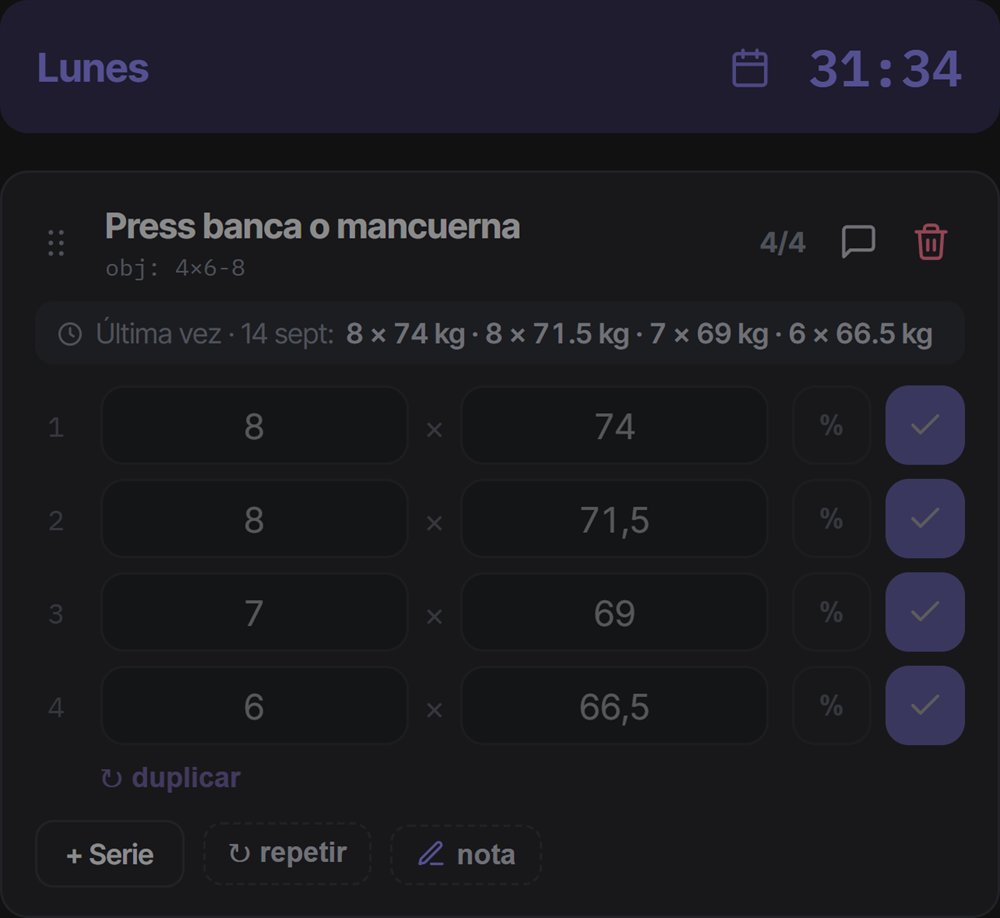
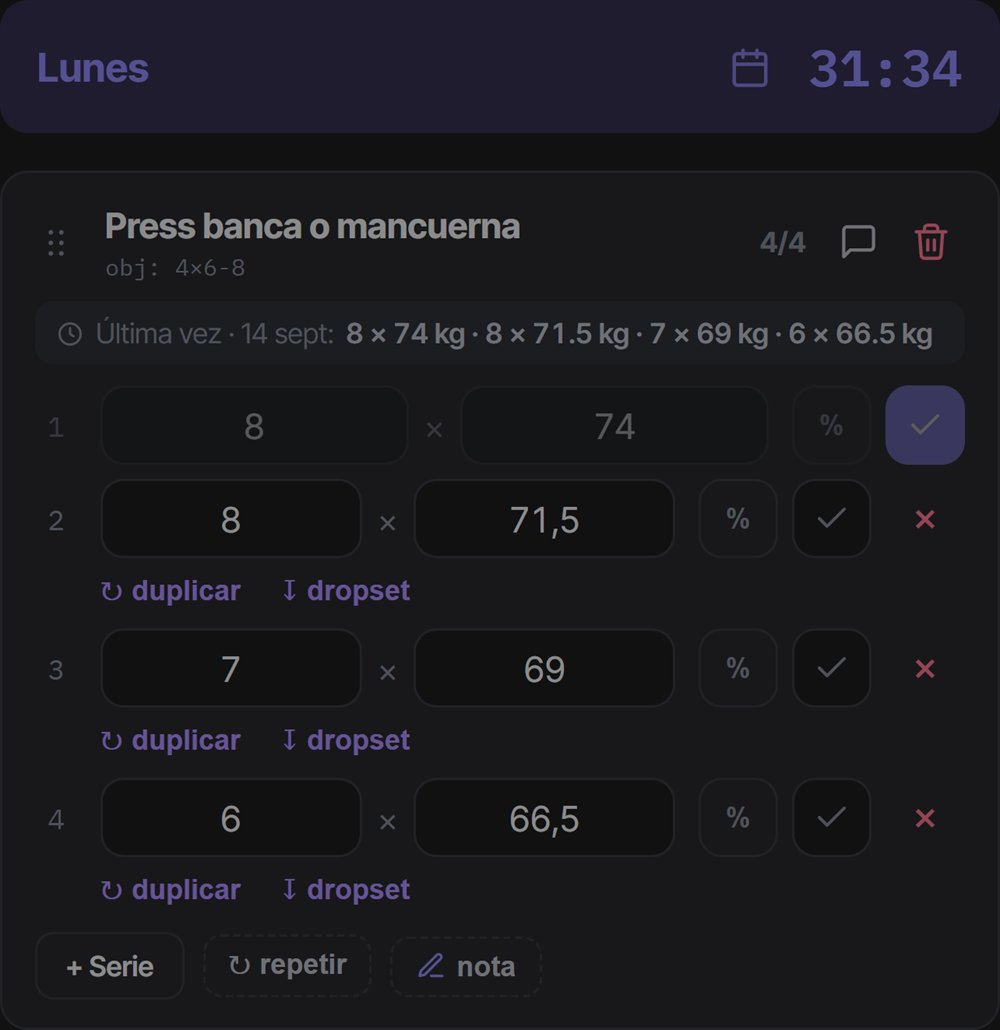
Presentación: el horizontal pasa a ser la entrada, y las capturas ya no salen apagadas · v2.24.0 (build-152)
Las cintas cortaban las tarjetas por los lados y obligaban a adivinar. Ahora
el movimiento lateral es CÓMO entra cada bloque: texto e imagen llegan por
lados opuestos y se paran enteros.

Las capturas salían al 55% porque la app atenúa las series ya hechas
(.set-row.done) y yo las había marcado todas. Se deja solo la primera hecha.

Corregido además un fallo de especificidad: la regla de .rev pesaba más que
la que devuelve el contenido a su sitio, así que los bloques invertidos se
quedaban desplazados.

diff --git a/index.html b/index.html
@@ -161,15 +161,43 @@
   html.has-profile #appShell { display: block; }
   html.has-profile #landing { display: none; }
 
-  /* Entrada suave de la presentación al ir bajando. El estado oculto se aplica ya en el
-     primer pintado (por eso está aquí y no en styles.css) para que no haya parpadeo. */
+  /* Entrada de la presentación al ir bajando. El estado oculto se aplica ya en el
+     primer pintado (por eso está aquí y no en styles.css) para que no haya parpadeo.
+     El movimiento es LATERAL: texto e imagen entran por lados opuestos y se paran
+     enteros. Nada queda cortado y no hay nada que deslizar a mano. */
   html.js-reveal #landing .ld-sec,
   html.js-reveal #landing .ld-step,
-  html.js-reveal #landing .ld-final {
-    opacity: 0; transform: translateY(18px);
-    transition: opacity .6s ease, transform .6s cubic-bezier(.22,.61,.36,1);
+  html.js-reveal #landing .ld-band,
+  html.js-reveal #landing .ld-final { opacity: 0; transition: opacity .5s ease; }
+  html.js-reveal #landing .in { opacity: 1; }
+
+  html.js-reveal #landing .ld-step .ld-step-copy,
+  html.js-reveal #landing .ld-step .ld-ui,
+  html.js-reveal #landing .ld-band .ld-bcard,
+  html.js-reveal #landing .ld-band .ld-chips span {
+    transform: translateX(-46px);
+    transition: transform .7s cubic-bezier(.22,.61,.36,1), opacity .5s ease;
   }
-  html.js-reveal #landing .in { opacity: 1; transform: none; }
+  html.js-reveal #landing .ld-step .ld-ui { transform: translateX(46px); }
+  html.js-reveal #landing .ld-step.rev .ld-step-copy { transform: translateX(46px); }
+  html.js-reveal #landing .ld-step.rev .ld-ui { transform: translateX(-46px); }
+  /* OJO: esto tiene que pesar al menos tanto como las reglas de .rev de arriba,
+     o los bloques invertidos se quedarían desplazados para siempre. */
+  html.js-reveal #landing .ld-step.in .ld-step-copy,
+  html.js-reveal #landing .ld-step.in .ld-ui,
+  html.js-reveal #landing .ld-band.in .ld-bcard,
+  html.js-reveal #landing .ld-band.in .ld-chips span { transform: none; }
+  /* Escalonado: entran una detrás de otra, no todas de golpe. */
+  html.js-reveal #landing .ld-bcard:nth-child(2),
+  html.js-reveal #landing .ld-chips span:nth-child(2) { transition-delay: .05s; }
+  html.js-reveal #landing .ld-bcard:nth-child(3),
+  html.js-reveal #landing .ld-chips span:nth-child(3) { transition-delay: .1s; }
+  html.js-reveal #landing .ld-bcard:nth-child(4),
+  html.js-reveal #landing .ld-chips span:nth-child(4) { transition-delay: .15s; }
+  html.js-reveal #landing .ld-bcard:nth-child(n+5),
+  html.js-reveal #landing .ld-chips span:nth-child(n+5) { transition-delay: .2s; }
+  /* Mientras entran de lado podrían asomar por el borde: se recorta sin tocar el sticky. */
+  #landing { overflow-x: clip; }
 
   * { box-sizing: border-box; margin: 0; padding: 0; -webkit-tap-highlight-color: transparent; }
   /* Los <button>/<select> no heredan el color de texto por defecto (usan el negro del
@@ -782,9 +810,7 @@
     <p>Traindía es una <strong>app de entrenamiento</strong> para el móvil y el ordenador: montas tu rutina semanal, registras cada serie mientras entrenas y sigues tu progreso con récords y gráficas.</p>
   </section>
 
-  <!-- Banda que se desplaza de lado según la sección cruza la pantalla. No se ancla
-       nada: el scroll vertical sigue a su ritmo y el movimiento lateral lo acompaña. -->
-  <section class="ld-band" data-band>
+  <section class="ld-band">
     <p class="ld-band-lead">Lo que entrenes, cabe</p>
     <div class="ld-rail ld-chips">
       <span>Peso y repeticiones</span><span>Tiempos y planchas</span><span>Cardio con distancia</span>
@@ -801,8 +827,8 @@
       <h2>Tu semana, de un vistazo</h2>
       <p>Abres la app y ves qué toca: el grupo del día, si va fuerte o ligero y cuánto vas a tardar. Cero decisiones antes de empezar.</p>
     </div>
-    <figure class="ld-ui" data-par="22">
-      <img src="ui-semana.jpg" width="1000" height="928" loading="lazy" decoding="async" alt="Tres días del plan en Traindía: lunes de empuje, martes de pierna y miércoles de tirón, con su intensidad y duración">
+    <figure class="ld-ui">
+      <img data-par="22" src="ui-semana.jpg" width="1000" height="928" loading="lazy" decoding="async" alt="Tres días del plan en Traindía: lunes de empuje, martes de pierna y miércoles de tirón, con su intensidad y duración">
     </figure>
   </section>
 
@@ -812,8 +838,8 @@
       <h2>Apuntar sin cortar el ritmo</h2>
       <p>Serie hecha, un toque. Y encima de cada ejercicio, lo que levantaste la última vez: ya sabes a qué aspiras sin pararte a pensar.</p>
     </div>
-    <figure class="ld-ui" data-par="22">
-      <img src="ui-entreno.jpg" width="1000" height="918" loading="lazy" decoding="async" alt="Entreno en marcha: cronómetro a 31:33 y el press banca con sus cuatro series marcadas y el registro de la última vez">
+    <figure class="ld-ui">
+      <img data-par="22" src="ui-entreno.jpg" width="1000" height="1030" loading="lazy" decoding="async" alt="Entreno en marcha: cronómetro a 31:33 y el press banca con sus cuatro series marcadas y el registro de la última vez">
     </figure>
   </section>
 
@@ -823,8 +849,8 @@
       <h2>La gráfica no discute</h2>
       <p>Tu racha de semanas, los entrenos que llevas y cómo se mueve tu peso corporal. Cuando dudes de si avanzas, míralo.</p>
     </div>
-    <figure class="ld-ui" data-par="22">
-      <img src="ui-progreso.jpg" width="1000" height="1028" loading="lazy" decoding="async" alt="Progreso en Traindía: 12 semanas de racha, 53 entrenos y la gráfica del peso corporal bajando">
+    <figure class="ld-ui">
+      <img data-par="22" src="ui-progreso.jpg" width="1000" height="1028" loading="lazy" decoding="async" alt="Progreso en Traindía: 12 semanas de racha, 53 entrenos y la gráfica del peso corporal bajando">
     </figure>
   </section>
 
@@ -834,12 +860,12 @@
       <h2>Cada récord, con su fecha</h2>
       <p>Peso máximo, 1RM estimado, repeticiones y kilos totales levantados. Un ejercicio no es una sola cifra, y aquí no lo es.</p>
     </div>
-    <figure class="ld-ui" data-par="22">
-      <img src="ui-records.jpg" width="1000" height="554" loading="lazy" decoding="async" alt="Récords de la sentadilla en Traindía: 106 kg por 8 repeticiones, 134 kg de 1RM estimado y 2974 kg levantados">
+    <figure class="ld-ui">
+      <img data-par="22" src="ui-records.jpg" width="1000" height="554" loading="lazy" decoding="async" alt="Récords de la sentadilla en Traindía: 106 kg por 8 repeticiones, 134 kg de 1RM estimado y 2974 kg levantados">
     </figure>
   </section>
 
-  <section class="ld-band" data-band data-band-dir="-1">
+  <section class="ld-band">
     <h2>Y además</h2>
     <div class="ld-rail">
       <article class="ld-bcard"><h3>Suplentes preparados</h3><p>Marca los ejercicios que no puedes saltarte y deja alternativas listas por si la máquina está ocupada.</p></article>

diff --git a/app.js b/app.js
@@ -413,9 +413,6 @@ const app = {
 
   // Movimiento de la presentación. Todo va atado al scroll normal y nada se ancla:
   //  - paralaje: las imágenes se mueven unos píxeles menos que el texto (profundidad).
-  //  - bandas: la cinta de tarjetas se desplaza de lado mientras la sección cruza
-  //    la pantalla. La clave es que la sección NO se queda fija, así que bajar
-  //    siempre avanza la página: el lateral acompaña, no sustituye.
   //  - barra de progreso arriba, para que se vea que queda contenido por delante.
   // Solo transform y width: no toca el flujo, así que no hay saltos ni reflows.
   initScrollFx() {
@@ -423,11 +420,7 @@ const app = {
     const barra = document.querySelector('#landing .ld-bar i');
     const capas = reduce ? [] : [...document.querySelectorAll('#landing [data-par]')]
       .map(el => ({ el, amp: parseFloat(el.dataset.par) || 0 }));
-    const bandas = reduce ? [] : [...document.querySelectorAll('#landing [data-band]')]
-      .map(sec => ({ sec, rail: sec.querySelector('.ld-rail'), dir: sec.dataset.bandDir === '-1' ? -1 : 1 }))
-      .filter(b => b.rail);
-    if (bandas.length) document.documentElement.classList.add('js-band');
-    if (!barra && !capas.length && !bandas.length) return;
+    if (!barra && !capas.length) return;
 
     const pintar = () => {
       if (barra) {
@@ -440,17 +433,6 @@ const app = {
         if (r.bottom < -200 || r.top > innerHeight + 200) return; // fuera de vista: ni se toca
         const d = ((r.top + r.height / 2) - medio) / innerHeight; // -1 arriba, +1 abajo
         c.el.style.transform = `translate3d(0, ${(d * c.amp).toFixed(1)}px, 0)`;
-      });
-      bandas.forEach(b => {
-        const r = b.sec.getBoundingClientRect();
-        if (r.bottom < -200 || r.top > innerHeight + 200) return;
-        // 0 justo cuando la sección asoma por abajo, 1 cuando acaba de salir por arriba.
-        const avance = Math.min(1, Math.max(0, (innerHeight - r.top) / (innerHeight + r.height)));
-        const sobra = b.rail.scrollWidth - b.sec.clientWidth;
-        if (sobra <= 0) { b.rail.style.transform = ''; return; }
-        // dir -1 entra por el otro lado, para que las bandas no vayan todas igual.
-        const x = b.dir === 1 ? -avance * sobra : -(1 - avance) * sobra;
-        b.rail.style.transform = `translate3d(${x.toFixed(1)}px, 0, 0)`;
       });
     };
 
@@ -469,7 +451,7 @@ const app = {
   // (clase .js-reveal del <html>), así que aquí solo hay que marcar lo que ya se ve.
   revealLanding() {
     if (!document.documentElement.classList.contains('js-reveal')) return;
-    const els = document.querySelectorAll('#landing .ld-sec, #landing .ld-step, #landing .ld-final');
+    const els = document.querySelectorAll('#landing .ld-sec, #landing .ld-step, #landing .ld-band, #landing .ld-final');
     if (!els.length) { document.documentElement.classList.remove('js-reveal'); return; }
     let alguno = false;
     const io = new IntersectionObserver((entries) => {
@@ -557,7 +539,7 @@ const app = {
                 tipo: d.tipo,
                 mensaje: d.mensaje.trim(),
                 contacto: (d.contacto || '').trim() || '(no indicado)',
-                version: 'v2.23.1',
+                version: 'v2.24.0',
                 perfil: (this.mainUser && this.mainUser.name) || '',
                 navegador: navigator.userAgent,
               }),
@@ -592,7 +574,7 @@ const app = {
     return `<div class="section">
       ${rows.map(r => `<button class="big-row" ${r.modal ? 'data-share' : `data-link="${r.v}"`}><span class="big-row-icon tile" style="background:${r.color}">${UI.icon(r.icon, 20)}</span><span class="big-row-text"><strong>${r.label}</strong><span class="dim">${r.sub}</span></span><span class="chev">›</span></button>`).join('')}
       <button class="big-row" data-feedback><span class="big-row-icon tile" style="background:var(--strong)">${UI.icon('chat', 20)}</span><span class="big-row-text"><strong>Sugerencias y reportes</strong><span class="dim">Envíame ideas o fallos</span></span><span class="chev">›</span></button>
-      <p class="version-foot">Traindía · v2.23.1 · ${Object.keys(this.usersById).length} perfil(es)<br>© 2026 Raúl Márquez · <a class="foot-link" href="${this.REPO_URL}" target="_blank" rel="noopener">Ver en GitHub ↗</a></p>
+      <p class="version-foot">Traindía · v2.24.0 · ${Object.keys(this.usersById).length} perfil(es)<br>© 2026 Raúl Márquez · <a class="foot-link" href="${this.REPO_URL}" target="_blank" rel="noopener">Ver en GitHub ↗</a></p>
     </div>`;
   },
   bindMore(root) {
@@ -872,7 +854,7 @@ const app = {
         <button class="btn danger block" id="resetApp">Borrar todos los datos</button>
         <p class="field-hint">Restablece la app al estado inicial (se borran todos los perfiles, sesiones y progreso).</p>
       </div>
-      <p class="version-foot">Traindía · v2.23.1</p>
+      <p class="version-foot">Traindía · v2.24.0</p>
     </div>`;
   },
 

diff --git a/styles.css b/styles.css
@@ -713,6 +713,7 @@ body.modal-open { overflow: hidden; }
 .ld-band h2 { font-size: 22px; font-weight: 800; letter-spacing: -0.02em; color: var(--ink); margin-bottom: 4px; }
 .ld-band-lead { font-size: 13px; letter-spacing: 0.14em; text-transform: uppercase; color: var(--ink-dim); }
 .ld-rail { display: flex; flex-wrap: wrap; gap: 12px; margin-top: 16px; }
+.ld-chips { gap: 10px; }
 .ld-bcard {
   flex: 1 1 240px; background: var(--bg-card); border: 1px solid var(--line);
   border-radius: 14px; padding: 16px;
@@ -725,9 +726,6 @@ body.modal-open { overflow: hidden; }
   font-size: 14px; font-weight: 600; color: var(--ink-soft); white-space: nowrap;
 }
 
-html.js-band .ld-band { overflow: hidden; margin: 0 -18px; padding-inline: 18px; }
-html.js-band .ld-rail { flex-wrap: nowrap; width: max-content; will-change: transform; }
-html.js-band .ld-bcard { flex: 0 0 250px; }
 
 
 .ld-faq { padding: 13px 0; border-bottom: 1px solid var(--line-soft); }
@@ -755,9 +753,6 @@ html.js-band .ld-bcard { flex: 0 0 250px; }
   .ld-step p { font-size: 16.5px; }
   .ld-ui { margin-top: 0; }
   .ld-band h2 { font-size: 28px; }
-  /* Tarjetas más anchas: así la cinta sigue siendo bastante más larga que la
-     pantalla y el recorrido lateral se aprecia igual que en el móvil. */
-  html.js-band .ld-bcard { flex: 0 0 340px; }
 }
 
 /* Portada de "Compartir": dos tarjetas grandes Exportar / Importar */

diff --git a/sw.js b/sw.js
@@ -1,10 +1,10 @@
 // Service Worker - Traindía
-// La versión visible de la app es v2.23.1 (ver pie en la app).
+// La versión visible de la app es v2.24.0 (ver pie en la app).
 // CACHE_NAME es solo la clave de caché: súbele el número de build en cada deploy
 // (build-6, build-7, …) para que los cambios lleguen a las apps ya instaladas.
 // Los fetch usan {cache:'reload'} para saltarse la caché HTTP del navegador/Pages
 // y traer SIEMPRE la última versión con red (offline tira de CACHE_NAME).
-const CACHE_NAME = 'traindia-build-151';
+const CACHE_NAME = 'traindia-build-152';
 // Buzón temporal para archivos que llegan por "Compartir" desde otra app
 // (WhatsApp, Archivos…). No se borra al activar: lo lee y vacía la app.
 const SHARE_CACHE = 'traindia-share-inbox';
